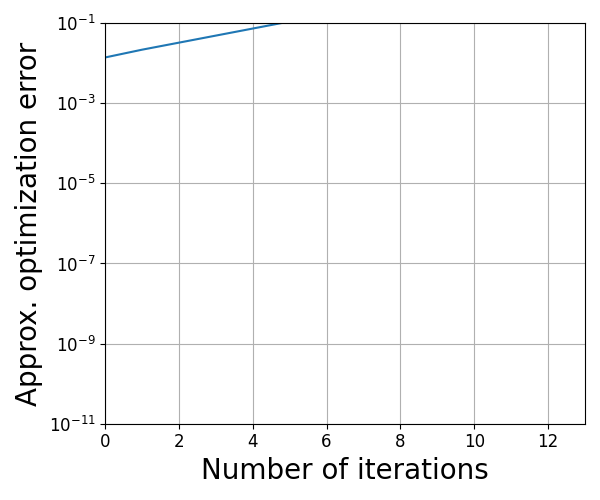
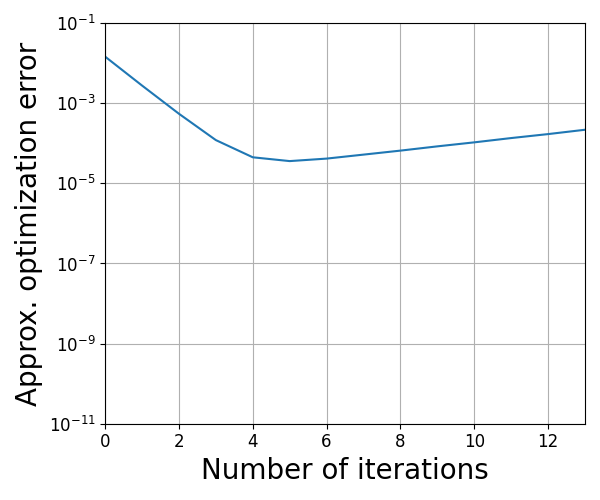
Add back normalization

diff --git a/expr_QuantumAugustin.py b/expr_QuantumAugustin.py
@@ -57,7 +57,7 @@ def gradf(X, rhos, P, a, Diagonal=False): # In case you want to compute gradient
                 ans += (h(ei, ek, a) / (a - 1)) * ((ui @ ((ui.H @ tmp) @ uk) @ uk.H))
     return ans
 def Polyak(rhos,P,a, Diagonal=False):
-    delta_t, delta, gamma, beta, c = 2.5, 1e-11, 1.25, 0.75, 0.1
+    delta_t, delta, gamma, beta, c = 2.5, 1e-11, 1.25, 0.75, 0.05
     T = 30
     D = rhos[0].shape[0]
     sigma_t = np.identity(D) / D
@@ -153,7 +153,7 @@ for alpha in alphas:
 
     last_f_val = f_values[-1] # Last iterate is guaranteed to converge.
     for i in range(len(f_values)):
-        f_values[i] = abs(f_values[i]-last_f_val) # Calculate the distance instead.
+        f_values[i] = f_values[i]-last_f_val 
 
     # Plotting the results with log-scale y-axis
     plt.figure(figsize=(6, 5))
@@ -194,19 +194,19 @@ D=3
 # An instance that cause our proposed algorithm to fail when alpha < 0.5
 global_rhos = [
     [
-        [0.6,0,0],
-        [0,0.36,0],
-        [0,0,0.04]
+        [0.9,0,0],
+        [0,0.09,0],
+        [0,0,0.001]
     ],
     [
-        [0.21,0,0],
-        [0,0.7,0],
-        [0,0,0.09]
+        [0.009,0,0],
+        [0,0.99,0],
+        [0,0,0.001]
     ],
     [
-        [0.04,0,0],
-        [0,0.16,0],
-        [0,0,0.8]
+        [0.0001,0,0],
+        [0,0.0009,0],
+        [0,0,0.999]
     ]
 
 ]
@@ -233,6 +233,7 @@ for alpha in alphas:
     T = 30
     for i in range(T):
         sigma = SimpleIteration(sigma, rhos, P, alpha,Diagonal=True)
+        sigma /= np.trace(sigma) # Since our iteration rule is homogeneous, its ok to normalize for every round
         iterations.append(i+1)
         f_val = f(sigma, rhos, P, alpha,Diagonal=True)
         f_values.append(f_val)
@@ -244,7 +245,7 @@ for alpha in alphas:
                                        # proved to converge for alpha < 0.5
     print("Minimum computed by Polyak",min_f_val)
     for i in range(len(f_values)):
-        f_values[i] = abs(f_values[i]-min_f_val) # Compute the distance instead.
+        f_values[i] = f_values[i]-min_f_val
     # f_values = f_values[:T//10]
     # norm_logs = norm_logs[:T//10]
     # iterations = iterations[:T//10]

diff --git a/README.md b/README.md
@@ -6,7 +6,7 @@ $ python expr_QuantumAugustin.py
 ```
 ## Challenging Instance
 input alphabet : {1,2,3}\
-classical-quantum channel outputs : $$\rho_B^1=\mathrm{Diag}\left(\left(0.6,0.36,0.04\right)\right),\rho_B^2=\mathrm{Diag}\left(\left(0.21,0.7,0.09\right)\right),\rho_B^3=\mathrm{Diag}\left(\left(0.04,0.16,0.8\right)\right)$$\
+classical-quantum channel outputs : $$\rho_B^1=\mathrm{Diag}\left(\left(0.9,0.09,0.01\right)\right),\rho_B^2=\mathrm{Diag}\left(\left(0.009,0.99,0.001\right)\right),\rho_B^3=\mathrm{Diag}\left(\left(0.0001,0.0009,0.999\right)\right)$$\
 probability distribution : $$P_X(1)=P_X(2)=P_X(3)=\frac{1}{3}$$
 ## References
 We use the QuTip package.\
